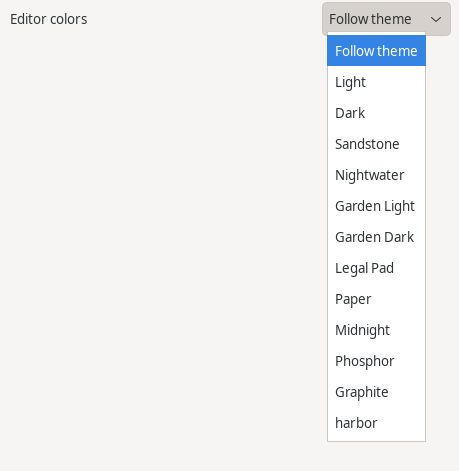
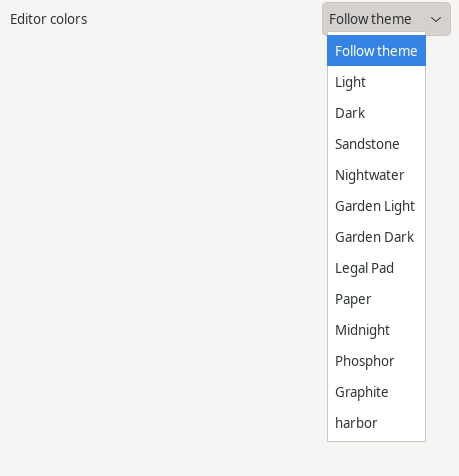
Align the docs with the code after waves A to C: busy refusals, quit order, locale formats, wave C class owners and test rows, and the Preferences Files screenshot with the last used tab option

diff --git a/qcaret-app/TESTING.md b/qcaret-app/TESTING.md
@@ -29,6 +29,7 @@ of a file without write permission skip where the user writes every file.
 | `TabMoveTest` | The round-trip guard and a missing file moving with the tab; a canceled save's writer ending after the move with the target's state and its running save untouched; the state a move carries; refusals, a running copy among them; a copy whose window closed reporting in the active window; close and quit around a move; a move from or to a closed window; a line transform or replace run delivered after the move. The budget returning to its start shows each document released once |
 | `DocumentLifecycleTest` | An `OpenDocument` entry across windows: declared settings, untitled name, buffer id and chosen grammar carried by a move; a reopen in the target window; a rename from another window's browser holding Save with the target's notice, then moving the document and reading its new settings; a tab moved out during a rename leaving no hold in the window it left; a close during the save cleanup writing nothing |
 | `QuitPromptsTest` | Answers before saves, Cancel, each way a save ends the quit, an edit during a save or after Don't Save, an untitled document saved at a prompt, Compare at a save conflict followed by Overwrite or Cancel |
+| `QuitAndCloseSavesTest` | A quit's save of a document another save writes in place: the quit going on when a window close's save closed the document, and writing again over a save it replaced; a window close during the quit's saves or its snapshot write doing nothing |
 | `LastTabTest` | Closing the only tab opening a selected untitled document, after the unsaved prompt too; a lone empty untitled document kept, and by Close All; Reopen Closed Tab after the last close; a tab moved out, a window close and a quit opening none; `tabs.closeWindowWithLastTab` closing the window, and quitting after the prompt for the last one; the untitled document left out of the session; the rule built from the settings, a quit flag and a close action, without a window set |
 | `TabCloseTest` | The tab shown after closing the first, a middle and the last tab; closing a tab not shown; Close All, Close Others from a tab not shown and Close to the Left or Right with the shown tab at each position, recording every change of the shown tab; unsaved prompts in tab order with Cancel stopping; `tabs.closeShowsLastUsed` on and off, after a tab move out and after Reopen Closed Tab |
 | `AlwaysOnTopTest` | The toggle reaching the view, the item disabled where unsupported, the state saved and restored per window, the saved flag kept by an unsupported start |
@@ -65,6 +66,8 @@ of a file without write permission skip where the user writes every file.
 | `CommandPaletteTest` | `Fuzzy`, every menu command listed in menu order, cascade titles, keys and enabled state, running only an enabled command |
 | `MenuTableTest` | Every menu command placed once in its own menu, each cascade adjacent, radio items only on check commands, the macOS application menu taking About, Exit and Preferences, Close to the Left and Right without keys, and unique mnemonics in the menu bar titles, each menu and cascade with and without the macOS application menu, and the editor, tab and row menus; a mnemonic on every item of those menus |
 | `ChecksumToolsTest` | Generate as typed and Copy; Generate from Files with repeated names relative to the common folder (also on Windows-shaped elements), a file past the read buffer, an unreadable file, Copy, Save As and the saved list verified; a canceled run whose late lines are dropped; Verify over the open document (OK, FAILED, MISSING, unreadable, a `*` line, a bad line) and over a chosen list; selection bytes in UTF-16LE with CRLF joins, and a char the charset cannot encode; an algorithm the probe leaves out |
+| `ChecksumFilesTest` | A checksum list's Save As replacing the target, and refused onto a held lock file or into a folder a rename holds; Generate from Files over several folders verified from the offered folder; a file under a folder without search permission unreadable |
+| `ChecksumSaveOverTabTest` | A checksum list saved over a file open through a link, with polling off: a clean tab in this window reloading, a dirty one in another window asked |
 | `TipOfTheDayTest` | The menu command showing and advancing the tip, raising an open dialog, wrapping, a saved index past the list, the check box; the startup show off by default, after the restore, the recovery dialog and a modal dialog, and none when turned off meanwhile |
 | `TipListTest` | Each tip's key from the platform keymap and the user's overrides, none for an unbound command, distinct tips |
 
@@ -110,6 +113,7 @@ after the change.
 | `SelectionCommandsTest` | Select All Occurrences from a caret and a range, past the limit, touching occurrences kept apart, no occurrence inside a CR LF, on a worker with a stale result dropped and Esc; Skip Occurrence; Expand Selection, with a bracket past the scan sought on a worker; Select Line; the selection history's entries, extension, clearing and limit; word deletes, case commands and Transpose at every caret as one undo step; combining marks kept with their word; a read-only document |
 | `EditorAdditionsTest` | Right Margin's toggle and saved choice; Document Statistics with a BOM, selections, UTF-16, an edit during the count, a close canceling it, no document; Insert Date and Time at every selection as one undo step, the preference format first, a read-only document, the common formats valid |
 | `EditorAidsTest` | Indent Guides reaching the view and saved; modified-line marks through insert, change, delete, undo, save and reload; Wrap Paragraph at the right margin as one undo step |
+| `WorkerResultsTest` | Document Statistics counting in the encoding taken with the snapshot; a find failing on its worker ending and reporting |
 | `BookmarksTest` | Bookmarks and comments through edits: an insert above, a deleted line and last line restored by undo and removed again by redo, a join keeping the upper bookmark, a cleared line, moved and sorted lines, coalesced deletes undone, two bookmarks one edit removed, an undo putting back other text, only the newest 1,000 removing edits restored, Clear dropping them, a restored comment over the limit left out; the comment bounds, wrap-around, `LineEnds` |
 | `BookmarkListTest` | Edit Bookmark Comment (cleaned text, an empty answer, a cancel, a refusal, the prompt's line followed through an edit); the list following an insert, undo, a tab change and close; Go To into a collapsed region; Edit Comment and Remove from the list; the row limit, text cut and a budget refusal |
 | `OverviewTest`, `OverviewMarksTest` | Find, HyperSearch and bookmark marks recomputed after an edit, a hidden strip computing nothing; the line and row mapping |
@@ -125,6 +129,7 @@ after the change.
 | `MergedFoldSourceTest` | Two sources merged; null while either has no regions |
 | `GrammarFoldingTest` | Python's indentation regions merged with a docstring span; Fold All over 110,000 lines of Markdown sections and fences through the commands |
 | `ColumnMetricsTest` | Column 150 at a 7.22 px advance |
+| `RowIndexTest` | `RowIndex.replaceAll` against `replace` applied range by range |
 | `LineChangesTest`, `TextStatisticsTest` | Modified-line marks from a line diff (added, changed, removed above and below, CR LF, the line limit); the statistics counts, surrogates, a text past every block, split pieces, progress, cancel and sums |
 
 ### Syntax highlighting
@@ -165,6 +170,7 @@ after the change.
 | `RecentFilesTest` | Newest first, a reopen moving a file up, a file opened through a link and its target as one entry, the 20-file limit, Clear; Clean Up dropping a deleted file and one replaced by a folder and keeping the rest, a dangling link and a file under an empty mount-point folder counted as gone, and a check blocked on its `qcaret-io-` worker leaving the list and the UI thread alone while a second Clean Up starts nothing |
 | `WindowsJunctionTest` (Windows only) | A hidden system junction that denies listing, as `My Documents`: left out of the browser, the index and the walk with Hidden off, and listed as `Access denied` |
 | `WorkspaceFilesTest` | Search in Folder, New File, New Folder, Rename and Delete through the controller: refused names, no Rename or Delete on the root, a case-only rename of an open document, a folder rename moving open dirty documents, closed-file state and the recovery file, Save and Reload (prompt of a dirty document, read of a clean one) refused while a rename runs, a rename reading the new name's per-file settings, a save refused during a rename running no cleanup, a folder delete with its counts leaving a dirty document missing, a file delete leaving the index, a link to an outside folder deleted alone |
+| `BusyGuardTest` | Rename and Delete refused while `OpenFile.inFlight` names work on a document under the entry, or while a `RunningWrites` target lies under it: Save As, Save a Copy As and a checksum list Save As writing into a folder, a rename holding a document |
 
 ### Other classes
 

diff --git a/docs/user-guide.md b/docs/user-guide.md
@@ -537,8 +537,8 @@ the workspace folder again. Favorites lists your favorite folders and adds or
 removes the shown one. The filter field takes patterns such as `*.java;*.md`
 and applies to files, not folders; it ignores case on Windows and macOS. Hidden
 lists hidden entries. The Modified column shows the date; the row's tool tip
-adds the time. Click a column header to sort by name, size or modified time,
-and again to reverse. Each window keeps its shown folder, filter and Hidden
+adds the time. Sizes, dates and times follow the system's language. Click a
+column header to sort by name, size or modified time, and again to reverse. Each window keeps its shown folder, filter and Hidden
 setting in the session. A change made in one window's browser shows in every
 window's.
 
@@ -552,7 +552,8 @@ window's.
 A name must be a single file or folder name, and a name already in use is
 refused. A link is renamed or deleted as the link; its target stays. Rename
 and Delete refuse with a notice while a file in the entry is being saved, copied,
-reloaded or renamed, or a save writes into it. Open
+reloaded or renamed or has a change question open, or while a save, a copy or a
+checksum list is being written into it. Open
 documents under a deleted entry stay open, marked missing, and Save writes them
 again. A folder delete that fails partway stops and says what is left. Renaming
 the workspace folder or a folder above it moves the workspace folder in every
@@ -615,8 +616,10 @@ shows disabled, with the reason in its tool tip.
   `sha256sum` format, `<hash>  <name>`, with a progress bar and Cancel. Files
   from several folders are named by their path below the common folder, such
   as `a/x.txt`. Copy and Save As take the list; saved in that common folder,
-  the list verifies with Verify Checksums. A list saved over a file open in a
-  tab reaches that tab as a change made by another program.
+  the list verifies with Verify Checksums. Save As writes the list as Save
+  writes a file and refuses, with a notice, a folder the workspace browser is
+  renaming. A list saved over a file open in a tab reaches that tab as a change
+  made by another program.
 - Generate from Selection into Clipboard copies the hash of the selected
   text as the document saves it: in the document's encoding, without a byte
   order mark, line breaks as the document holds them. Several selections join
@@ -679,15 +682,17 @@ Drag a tab out of every QCaret window to open it in a new window, or onto anothe
 window's tab strip to dock it there; Window > Move to New Window and the tab
 menu do the first. The document moves live and nothing is read again: undo
 history, unsaved changes, carets, scroll, folds, bookmarks and its recovery file
-go with it. A tab with a save, copy, reload, conversion or Workspace Browser
-rename running does not move.
+go with it. A tab with a save, copy, reload, conversion, Reopen with Encoding or
+workspace browser rename running, or with a change question open, does not move,
+and a notice says so.
 Search results stay in their window and still lead to the moved tab.
 
 File > Exit (Quit in the application menu on macOS) asks about unsaved documents
 in every window before anything closes; Cancel leaves everything as it was, and
 a save that fails stops the quit. Closing a window asks about its own documents;
-closing the last one quits. A document edited while its save from a close
-prompt runs stays open and asks again.
+closing the last one quits. While Exit runs, closing a window does nothing. A
+document edited while its save from a close prompt runs stays open and asks
+again.
 
 A second launch on the same settings directory passes its files to the running
 QCaret and exits. They open in the window activated last, or a new one with `-n`.
@@ -858,7 +863,7 @@ qcaret [options] [[+<line>[:<column>]] file]...
 | `-v`, `--version` | Print the version and exit |
 | `-d`, `--debug <level>` | Log level on stderr: `1` info, `2` debug, `3` and above trace, or a level name |
 | `-l`, `--log` | Also write the log to `logs/` in the settings directory, for this run |
-| `-m`, `--multi` | Run as an independent instance: no handoff and no session |
+| `-m`, `--multi` | Run as an independent instance: no handoff, no session, and the window placement is not saved |
 | `-n`, `--new-window` | Open in a new window of the running instance; cannot be combined with `-m` |
 | `-r`, `--read-only` | Open the following files read-only |
 | `-e`, `--encoding <name>` | Open the following files in this encoding |

diff --git a/qcaret-app/README.md b/qcaret-app/README.md
@@ -28,7 +28,7 @@ is that toolkit and `qcaret-launcher` composes the two.
 | `app.controller` | `GrammarLibrary`, `DocumentGrammars`: grammar detection; Syntax menu, `SyntaxHighlighter` | [Highlighting](docs/highlighting.md) |
 | `app.controller` | Tools menu: `ChecksumTools`, `TextChecksum`, `FileChecksums`, `SelectionChecksum`, `ChecksumVerify`, `ChecksumRun` | [Tools](docs/tools.md) |
 | `app.config`, `app.controller` | Settings directory, `qcaret.conf`, `Settings`, key binding overrides, the settings keys | [Settings](docs/settings.md) |
-| `app.session`, `app.recovery` | Session file, per-file state, recovery files (`RecoveryController`, `RecoveryOffer`), quit snapshot | [Sessions and recovery](docs/sessions-and-recovery.md) |
+| `app.session`, `app.recovery`, `app.controller` | Session file, per-file state, recovery files (`RecoveryController`, `RecoveryOffer`), quit snapshot | [Sessions and recovery](docs/sessions-and-recovery.md) |
 | `app.about`, `app.i18n`, `app.log`, `app.theme` | Help commands, the user guide build, `UiText`, About, the log ring; themes, theme files, font discovery | [Help and themes](docs/help-and-themes.md) |
 
 ## Controller threading
@@ -39,7 +39,7 @@ Every controller is confined to the UI thread and never blocks it.
 no system property; platform facts come from the caller.
 
 A blocking call in `app.controller` (the list is `BLOCKING` in
-`ArchitectureTest`: `DocumentFiles` loads and saves, `SafeSave`, `Files`,
+`ArchitectureTest`: `DocumentFiles` estimates, loads and saves, `SafeSave`, `Files`,
 `FileChannel`, `Path.toRealPath`, `Charset.availableCharsets`, `AtomicFiles`,
 `SafePaths`, `ConfigStore.load` and `save`, and others) is allowed only:
 
@@ -59,7 +59,7 @@ Controllers run work on these `Workers` pools:
 |---|---|
 | `qcaret-cpu-` | Find matching, HyperSearch document matching, line transforms and conversions, rewraps, fold regions and Fold All, highlighting, word indexes, overview marks, the Bookmarks list, comparisons, large Quick Open matches, Go to Symbol scans, Document Statistics, Insert Date and Time rows, text and selection checksums |
 | `qcaret-io-` | Path resolution, loads, saves, reloads, directory listings, stamp checks, file replaces, recovery writes, theme files, font discovery, checksum file lists and Verify, Save a Copy As, Open All checks |
-| `qcaret-search-` | Folder walks of HyperSearch, the workspace file index |
+| `qcaret-search-` | Folder walks of HyperSearch, the workspace file index, a replace run or restore across files |
 | `qcaret-watch-` | External change checks |
 | `qcaret-lifecycle-` | Settings and session writes, the end of a quit, Help commands: the guide copy, About, licenses, the debug log file |
 | `qcaret-ipc-` | The handoff server's accept and connection tasks |

diff --git a/qcaret-ui-swt/TESTING.md b/qcaret-ui-swt/TESTING.md
@@ -79,6 +79,7 @@ test case.
 | `TabMoveGuiTest` | The menu items and tab drags over real shells, with a `PointerProbe` naming the control under the release |
 | `TabStripGuiTest` | The selected tab's close button, a menu request on a tab and off the tabs, and tab drags released over the window's own status bar or a dialog, which move nothing |
 | `TabCloseSurfaceTest` | Closing the shown tab in a real `CTabFolder` showing the tab after it, else the one before, in the folder, the controller and the text; the same after `TabList` scrolls and repairs the strip and while the folder is in MRU mode, where its own reselection differs. Fails when `TabStrip` acts on the `Selection` a dispose fires |
+| `DeferredDisposalTest` | A control hidden at once and disposed in a later task; one disposed before its turn skipped |
 | `TabStripButtonsTest` | With 30 tabs in a 700 px window: the three buttons and SWT's chevron at zero width, the hidden count, the list menu with a choice selecting and showing its tab and a duplicate name's folder, the wheel showing a hidden tab and keeping the selected one shown, New showing its tab at every width, Close asking about unsaved changes, the icon ink across a theme switch |
 | `WindowDialogsGuiTest` | The tab width and reload prompts opening modal; Preferences and Keyboard Shortcuts reused on a second request, with a keymap change between; the command palette, Quick Open and HyperSearch replaced; each prompt's answer and no window once the shell is disposed |
 | `AlwaysOnTopWindowTest` | View > Always on Top's check item enabled where `WindowStacking` supports it, its GTK 3 tool tip where not, and the command toggling the check |

diff --git a/qcaret-app/docs/windows-and-tabs.md b/qcaret-app/docs/windows-and-tabs.md
@@ -94,9 +94,11 @@ window stays open while the session restores.
 
 `quit` asks nothing and runs once: it captures the session, queues the last
 recovery writes, stops every window, records the normal bounds and maximized
-state of the window activated last, hides the windows, then on a worker runs
-the quit listeners, saves the settings and the session, finishes recovery,
-closes `Workers`, runs the finish listeners and posts the disposals. With
+state of the window activated last, hides the windows, then on a
+`qcaret-lifecycle-` worker saves the settings and the session, finishes
+recovery, runs the quit listeners, closes `Workers`, runs the finish listeners
+and posts the disposals. With `Workers` already closed it runs only the listeners
+and the disposals, on the calling thread. With
 `rememberWindow` false (a `--window-*` option or `-m`) it records nothing.
 
 ## Tab commands
@@ -127,11 +129,6 @@ during a tab move, and the controller selects the next tab after the dispose.
 Without that, `CTabFolder`'s own choice (the item before, or in MRU mode the one
 selected last) activates first and wins. `TabList` turns MRU mode on only
 within one strip repair or scroll.
-
-A closed tab's panes stop following their models at the close
-(`EditorPane.release`), and `DeferredDisposal` hides the tab's widgets and
-disposes them in later UI tasks of at most 20 ms each, so a bulk close's
-widget teardown, most of its cost on GTK, stays out of the command's UI task.
 
 Close All, Close Others and Close to the Left or Right close the shown tab last
 while it is clean (`TabUse.nextToClose`), and show the kept tab before closing

diff --git a/qcaret-ui-swt/README.md b/qcaret-ui-swt/README.md
@@ -12,7 +12,7 @@ classes, which reach SWT internals by reflection.
 
 | Package | Contents | Detail |
 |---|---|---|
-| `ui.swt` | `MainWindow`, `TabStrip`, `EditorTab`, `MainMenuBar`, `EncodingCascade`, `RecentMenus`, `MainToolBar`, `EditorMenu`, `TabMenu`, `TabStripButtons`, `TabList`, `AppMenu`, `WindowStacking`, status bar, `ProgressRow`, file drop | [Main window](docs/main-window.md) |
+| `ui.swt` | `MainWindow`, `TabStrip`, `DeferredDisposal`, `EditorTab`, `MainMenuBar`, `EncodingCascade`, `RecentMenus`, `MainToolBar`, `EditorMenu`, `TabMenu`, `TabStripButtons`, `TabList`, `AppMenu`, `WindowStacking`, status bar, `ProgressRow`, file drop | [Main window](docs/main-window.md) |
 | `ui.swt` | `WindowDialogs`, prompts, `ShortcutsWindow`, `PreferencesDialog`, `RecoveryDialog`, `CommandPaletteWindow`, `QuickOpenWindow`, `WorkspaceDock`, `BrowserColumns`, `BrowserSideWidth`, `BrowseBar`, `BrowserRowTip`, `BrowserDrag`, `FileNameDialog`, `DeleteDialog`, `StatisticsDialog`, `HashTextDialog`, `ChecksumDialog`, `DateFormatChooser`, `FindBar`, `SearchDialog`, `BookmarksDock`, `ChangeDialog`, `DiffWindow`, `GuideWindow`, `TipDialog` | [Dialogs and docks](docs/dialogs-and-docks.md) |
 | `ui.swt.search` | `ResultsDock`, `ResultRows`, `ReplaceDialog`, `ReportWindow`, `RunChooser` | [Dialogs and docks](docs/dialogs-and-docks.md#results-dock) |
 | `ui.swt.editor` | `EditorPane`, `ContentAdapter`, `EditorGestures`, `EditorLayout`, `CaretInk`, `CompletionPopup`, `PaneHighlights`, `PanePainter`, `OverviewStrip`, `MarginPainter`, `IndentGuidePainter`, `LineChangePainter` | [Editor pane](docs/editor.md) |

diff --git a/qcaret-ui-swt/docs/main-window.md b/qcaret-ui-swt/docs/main-window.md
@@ -45,6 +45,12 @@ stays shown. A tab close ignores that `Selection` too, and the controller
 selects the tab shown next (see
 [Windows and tabs](../../qcaret-app/docs/windows-and-tabs.md#tab-close)).
 
+A closed tab's panes stop following their models at the close
+(`EditorPane.release`). `TabStrip` hands the tab's control to
+`DeferredDisposal`, which hides it at once and disposes it in later UI tasks of
+at most 20 ms each, so a bulk close's widget teardown, most of its cost on GTK,
+stays out of the command's UI task.
+
 ### Tab moves between windows
 
 A tab drag uses the strip's `MouseDown` and `MouseUp`, no `DragSource`. A

diff --git a/README.md b/README.md
@@ -97,7 +97,7 @@ holds the mounts and environment and runs the same `./mvnw`.
 
 ```sh
 scripts/container.sh               # clean package -Pall-targets: seven archives into dist/
-scripts/container.sh check         # xvfb-run ./mvnw clean verify, SWT tests included
+scripts/container.sh check         # xvfb-run ./mvnw clean verify at 1280x1024, SWT tests included
 scripts/container.sh clean         # ./mvnw clean, and empty dist/
 scripts/container.sh shell         # a shell in the build image
 scripts/container.sh --rebuild     # rebuild the build image first
